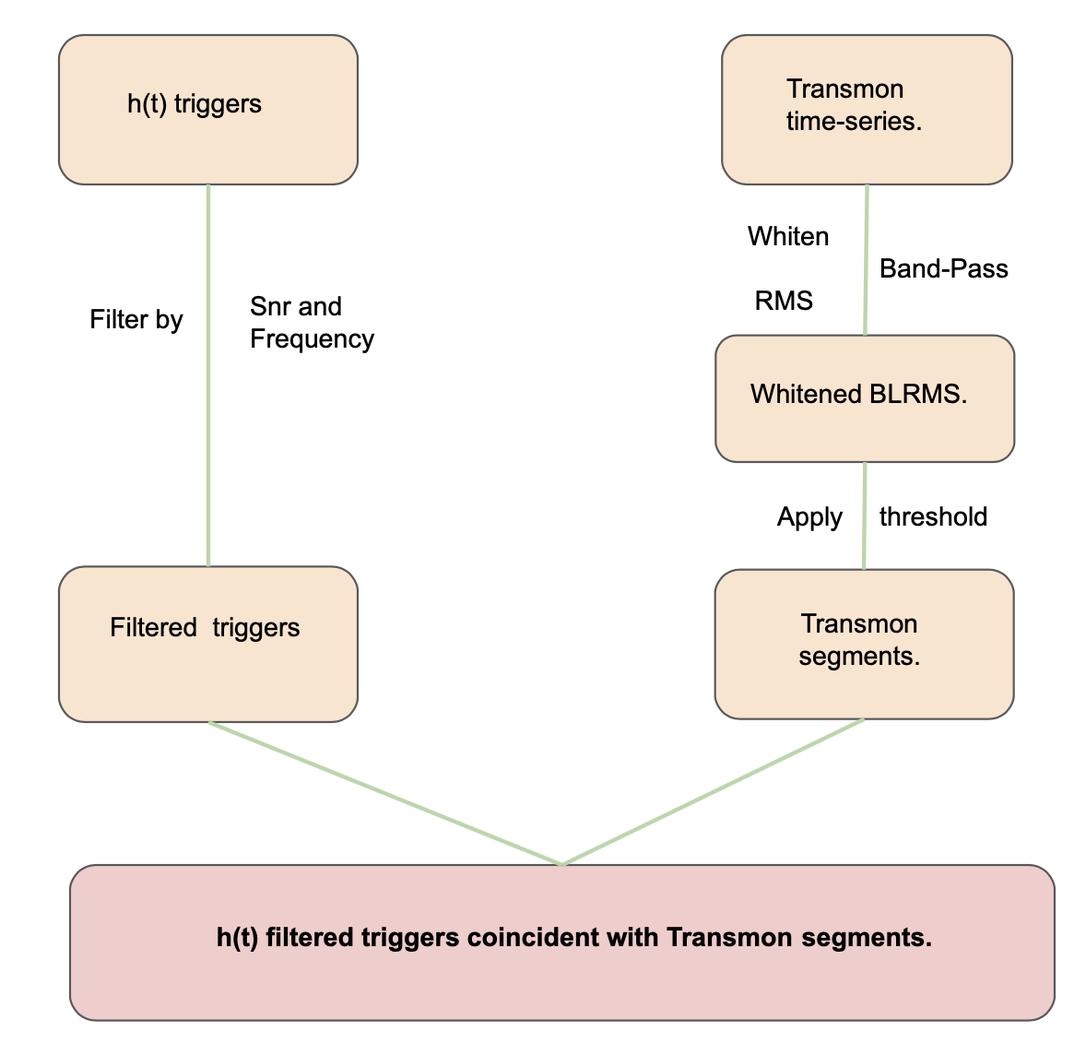
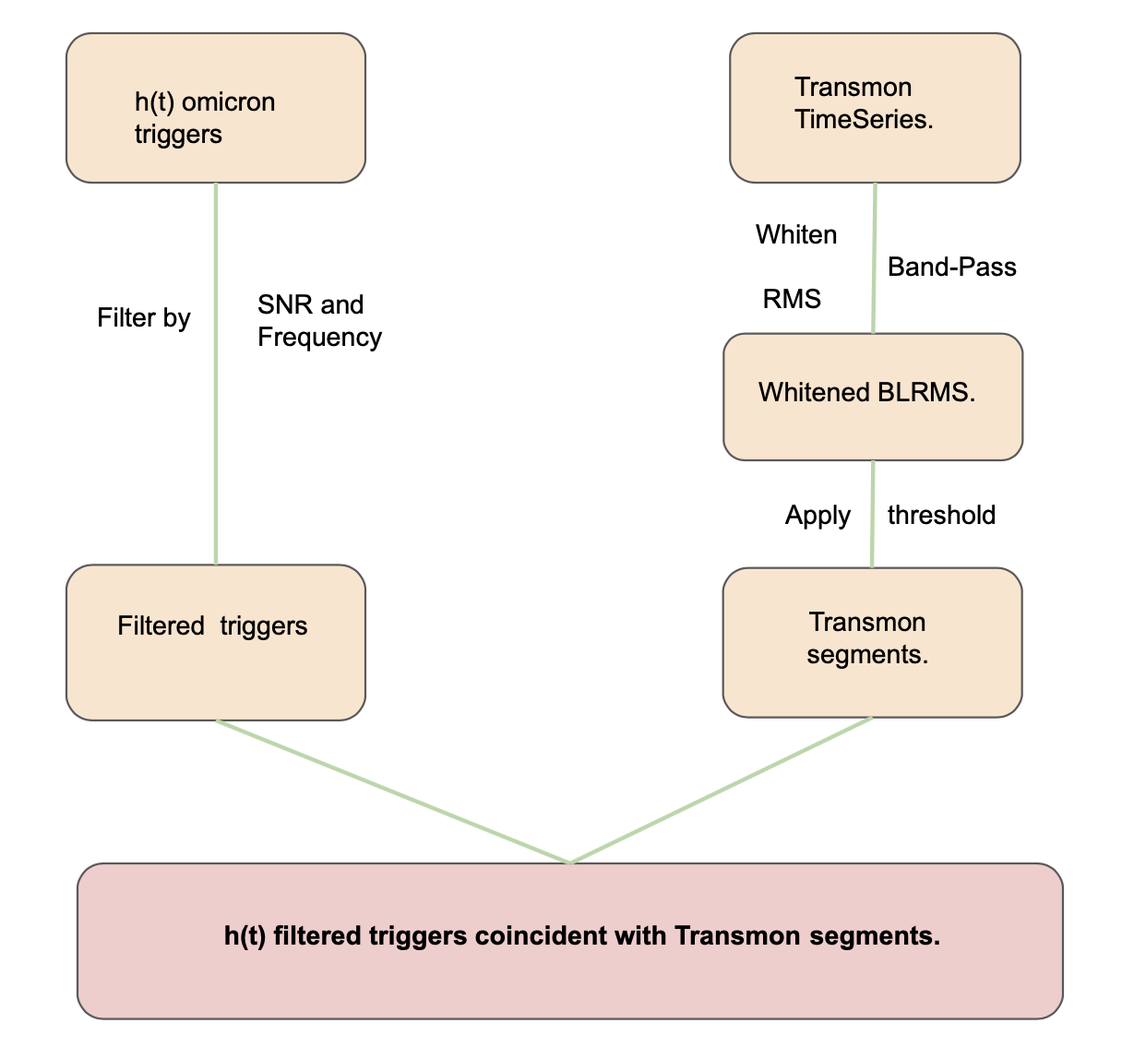
PnP first

diff --git a/elsarticle-template-1-num.tex b/elsarticle-template-1-num.tex
@@ -49,7 +49,7 @@
 %% for the whole article with \linenumbers after \end{frontmatter}.
 \usepackage{lineno}
 \usepackage{caption}
-\captionsetup[figure]{font=small}
+\captionsetup[figure]{font=small,labelfont=bf}
 %\usepackage[font=small,labelfont=bf]{caption}
 %\usepackage[font=small,labelfont=bf]{subcaption}
 \usepackage{cite}
@@ -161,8 +161,7 @@ Noise due to scattered light has been a frequent disturbance in the Advanced LIG
 The LIGO  gravitational-wave observatories located at Hanford, Washington (LHO), and Livingston, Louisiana (LLO) in the USA, along with the Virgo detector in Cascina, Italy~\cite{virgo}, and the GEO 600 detector in Germany~\cite{german} are a part of a worldwide network of gravitational-wave detectors~\cite{aligo}. 
 A schematic of the LIGO detectors is shown in Fig. ~\ref{fig:schematic}.
 Each LIGO detector is a dual-recycled Fabry-Perot Michelson interferometer with 4 km arms. The detector acts as a transducer for strain, converting phase shift due to a gravitational wave into a signal that can be measured on a photo-diode. The output signal at the photodetectors is calibrated to an equivalent strain signal h(t) \cite{Abbott_2017,Viets_2018}.
-%At the anti-symmetric end, the output mode cleaner filters the laser beam by blocking higher-order modes. Homodyne readout technique is used to read the signal at the output port \cite{Fricke_2012}. Finally, The output signal at the photodetectors is calibrated to an equivalent strain signal h(t) \cite{Abbott_2017,Viets_2018}.
-%{Abbott_2017}\cite{Viets_2018}.
+
 \begin{figure}[h]
     \centering
     \includegraphics[width=12cm]{ligo-schematic.png}
@@ -171,24 +170,24 @@ Each LIGO detector is a dual-recycled Fabry-Perot Michelson interferometer with 
 \end{figure}
 
 
-The first two observing runs, in September 2015-January 2016 and November 2016-August 2017, resulted in spectacular discoveries, including signals from the merger of 10 pairs of black holes and one from a merger of neutrons stars~\cite{catalogue,firstpaper,neturonpaper}. The third observing run began on April 1, 2019, and ended on March 27, 2020. During this run, plausible candidates were shared as public alerts, averaging one a week ~\cite{gracedb}. The average binary neutron star (BNS) range at Livingston and Hanford, during O3, is approximately 130 Mpc and 110 Mpc respectively. In October 2019, a month long working break separated the first and second half of O3, called O3a and O3b respectively. An increase in the laser input power and squeezed light injection, contributed to the increase in range from O2 to O3~\cite{src,prospect}.
+The first two observing runs, in September 2015-January 2016 and November 2016-August 2017, resulted in spectacular discoveries, including signals from the merger of 10 pairs of black holes and one from a merger of neutrons stars~\cite{catalogue,firstpaper,neturonpaper}. The third observing run began on April 1, 2019, and ended on March 27, 2020. During this run, plausible candidates were shared as public alerts, averaging one a week ~\cite{gracedb}. The average binary neutron star (BNS) range at Livingston and Hanford, during O3, is approximately 130 Mpc and 110 Mpc respectively. In October 2019, a month long working break separated the first and second half of O3, called O3a and O3b respectively. An increase in the laser input power and squeezed light injection, contributed to the increase in range from O2 to O3~\cite{prospect}.
 
 
 Noise from several different sources limits the sensitivity of the strain data at different frequencies. 
-While quantum shot noise is dominant at frequencies above 300 Hz~\cite{tjthesis}, ground motion is the major source of noise below 10 Hz which can affect the higher frequency band of the detectors. In addition to quantum noise, suspension noise and seismic noise, short duration noise transients also known as ``glitches'' can affect the sensitivity of the detectors \cite{transientpaper}. These noise transients can be due to high ground motion, electronic malfunction or other reasons, not well-understood \cite{Nuttall_2018,noisepaper,Cabero_2019}. In this paper, we focus on the type of noise transient due to scattered light which impacts the gravitational strain in 10 Hz to 120 Hz frequency band. Identifying and reducing the amount of scattering is imperative to increase the sensitivity of the detectors. 
+While quantum shot noise is dominant at frequencies above 300 Hz~\cite{tjthesis}, ground motion is the major source of noise below 10 Hz which can affect the higher frequency band of the detectors. In addition to quantum noise, suspension noise and seismic noise, short duration noise transients also known as ``glitches'' can affect the sensitivity of the detectors \cite{transientpaper}. These noise transients can be due to high ground motion, electronic malfunction or other reasons, not well-understood \cite{Nuttall_2018,noisepaper,Cabero_2019}. At aLIGO they are detected by the Omicron algorithm. Each of these events, also known as omicron trigger is annotated with some parameters such as event time, frequency, signal to noise ratio (SNR) to name a few ~\cite{omicron_florent,jess_thesis}. In this paper, we focus on the type of noise transient due to scattered light which impacts the gravitational strain in 10 Hz to 120 Hz frequency band. Identifying and reducing the amount of scattering is imperative to increase the sensitivity of the detectors. 
  
 The paper is composed as follows. In Sec. \ref{hardware} we give an overview of the sensors and instruments at the LIGO end stations. Next in Sec. \ref{scatteringnoise}, we discuss scattering noise and two primary methods used for its identification. Scattering noise during O3 is addressed in Sec. \ref{scatino3}. In Sec. \ref{m0r0_scattering} we provide a mathematical treatment of slow scattering, a sub-population of the light scattering and discuss the source of the noise. In Sec. \ref{rzero} we develop a method to mitigate the slow scattering noise discussed in Sec. \ref{m0r0_scattering}. Sec. \ref{transmon_scattering} introduces another source of slow scattering observed during O3. In Sec. \ref{transmonwitness} we discuss a method to identify scattering times. Finally we summarize the paper in Sec. \ref{summary}. 
 
-\section{Hardware and sensors at LIGO end stations.}\label{hardware} In this paper, we discuss noise due to scattered light. The site of light scattering discussed in this paper, is the set of mirrors located in the end station housing. This section describes these mirrors and other hardware, crucial for an understanding of light scattering,
-One of the LIGO end station housing an end test mass \cite{ETM_ref} of the interferometer arm is shown in Fig. ~\ref{fig:end_station}. Each station has a reference seismometer on the floor to monitor ambient seismic noise. The vacuum system has at the end of the 4km arms large vacuum chambers housing the test masses. The test mass and a transmitted light monitoring table are suspended from a two-stage seismic isolation table \cite{Matichard_2015}. The test mass has a double chain, four-layered suspension for additional isolation \cite{Aston_2012}. The quadruple suspension chain behind the quadruple test mass suspension is called the reaction chain. There is additional hardware around the suspension, most importantly the ``cage": a structure hard bolted to the seismic isolation table which serves both as a reference and as a safety measure for protecting against large motions that could damage the suspension.
+\section{Hardware and sensors at LIGO end stations}\label{hardware} In this paper, we discuss noise due to scattered light. The site of light scattering discussed in this paper, is the set of mirrors located in the end station housing. This section describes these mirrors and other hardware, crucial for an understanding of light scattering,
+A schematic of the LIGO end station housing an end test mass \cite{ETM_ref} of the interferometer arm is shown in Fig. ~\ref{fig:end_station}. Each station has a reference seismometer on the floor to monitor ambient seismic noise. The vacuum system has at the end of the 4km arms large vacuum chambers housing the test masses. The test mass and a transmitted light monitoring table are suspended from a two-stage seismic isolation table \cite{Matichard_2015}. The test mass has a double chain, four-layered suspension for additional isolation \cite{Aston_2012}. The quadruple suspension chain behind the quadruple test mass suspension is called the reaction chain. There is additional hardware around the suspension, most importantly the ``cage": a structure hard bolted to the seismic isolation table which serves both as a reference and as a safety measure for protecting against large motions that could damage the suspension.
 
 \begin{figure}
     \centering
     \includegraphics[width=\textwidth]{EndStationDiagram3.png}
-    \caption{The schematic of end station housing shows the seismic isolation system, quadruple suspension, transmission monitor system (TMS), and the seismometer used to measure ground vibrations. The OSEMs in the quad suspension cage measure relative motion and produce a force on the main and reaction chain. About 4 ppm of the light power in the arms is transmitted through the end test mass. $95$\% of this 4 ppm is dumped and the remaining $5$\% is split onto the two-quadrant photo-diodes (QPDs) in the TMS. These QPD's are used to check for any misalignment of the beam on the end test mass. }
+    \caption{The schematic of end station housing shows the seismic isolation system, quadruple suspension, transmission monitor system (TMS), and the seismometer used to measure ground vibrations. The optical shadow sensor and magnetic actuators (OSEMs) in the quad suspension cage measure relative motion and produce a force on the main and reaction chain. About 4 ppm of the light power in the arms is transmitted through the end test mass. $95$\% of this 4 ppm is dumped and the remaining $5$\% is split onto the two-quadrant photo-diodes (QPDs) in the TMS. These QPD's are used to check for any misalignment of the beam on the end test mass. }
     \label{fig:end_station}
 \end{figure}
-The suspension for the test mass uses optical shadow sensor and electromagnetic actuators (OSEM)  at the top three stages as well as an electrostatic drive (ESD) at the test mass stage. The OSEMs at the top stages measure relative motion and can produce a force (actuate) between the cage and the two chains. For the upper-intermediate mass (UIM) and penultimate (PUM) mass stages, the OSEMs measure and actuate in-between the two chains. The ESD is formed by the installation of 5 gold traces on reaction mass \cite{esd_schematic}. Applying a voltage on the gold traces, an electrostatic force can drive the test mass.  The reaction mass is a hollow cylinder to allow the transmitted beam to pass without encountering additional optical surfaces \cite{aerm_schematic}.
+The suspension for the test mass uses optical shadow sensor and magnetic actuators (OSEM)  at the top three stages as well as an electrostatic drive (ESD) at the test mass stage. The OSEMs at the top stages measure relative motion and can produce a force (actuate) between the cage and the two chains. For the upper-intermediate mass (UIM) and penultimate (PUM) mass stages, the OSEMs measure and actuate in-between the two chains. The ESD is formed by the installation of 5 gold traces on reaction mass \cite{esd_schematic}. Applying a voltage on the gold traces, an electrostatic force can drive the test mass.  The reaction mass is a hollow cylinder to allow the transmitted beam to pass without encountering additional optical surfaces \cite{aerm_schematic}.
 
 The transmission monitor is a double suspension with OSEM's at the top stage, measuring motion with respect to its cage \cite{Barsotti_2010}. It houses a telescope to reduce the large beam size coming from the arm. The LIGO end test masses have a transmission of approximately 4ppm, so for an arm power of 250kW as in O3a for the Livingston detector, the transmitted beam would be about 1W. $95\%$ of this light is dumped and $5\%$ is split about equally between two quadrant photodiodes, named A and B. 
 
@@ -214,14 +213,13 @@ The motion of the scatterer introduces an additional phase in the field reflecte
     
 ${\lambda}$ is the laser wavelength and  $\delta x_{sc}$ is the time-dependent displacement of the scattering surface which is added to the static path $x_{0}$, $L$ is the length of arms (4 kms), $\mathcal{F}$ is the Fourier transform of the scatterer motion~\cite{scatvirgo,vaj_scat}. 
 \par
-The build up of this phase shifted field in the arms by the factor ${\Gamma}$ pushes on the mirrors resulting in radiation pressure noise. This radiation component can be expressed as:
+The build up of this phase shifted field in the arms by the factor ${\Gamma}$ pushes on the mirrors resulting in radiation pressure noise. This radiation component of the noise can be expressed as:
 
-%The power fluctuations in the arm cavity push on the mirrors resulting in radiation pressure noise. This noise can be written as:
 
 \begin{equation}
     h_{rad}(f) = A\frac{2{\Gamma P}}{Mc}\frac{2}{\Omega^2 - \omega^2} \mathcal{F}\left[\cos{\delta{\phi}}\right] \label{rad_eqn}
 \end{equation}
-${\Gamma}$ is cavity signal gain, $M = 40$ kgs is the mass of mirrors, $P$ is the power in the arms, $c$ is speed of light and ${\Omega}$ is the suspension eigenfrequency~\cite{Ottaway:12}.
+${\Gamma}$ here is cavity signal gain, M $= 40$ kgs is the mass of mirrors, P is the power in the arms, $c$ is speed of light and ${\Omega}$ is the suspension eigenfrequency~\cite{Ottaway:12}.
 \begin{figure}[h]
     \centering
     \includegraphics[width=10cm]{scatindarmlrs1.png}
@@ -234,27 +232,24 @@ Scattering noise can be recognized as arches in time-frequency spectrograms as s
     f_{\rm fringe}(t) = \left|\frac{2nv_{sc}(t)}{\lambda}\right|  \label{eq:3}
 \end{equation}
 where $f_{\rm fringe}(t)$ is the fringe frequency and $n$ is the number of times stray light gets reflected back and forth between the test mass and the scatterer before it joins the main beam. We can also look at the spacing of the peaks in the time domain to give us the period of the scattering surface. 
-%Fig.~\ref{fig:scat} shows a scattering arch in time-frequency plane.
 
-%Noise due to scattered light appears as an arch in time-frequency plane~\cite{omegscan}~\cite{omegscan1} as shown in  Fig.~\ref{fig:scat}. 
-%During the first and second Observing runs, it was identified by measuring the motion of some of the optics that could be responsible for scattering and by looking at the output of GravitySpy which is a noise classification tool. Next, we briefly discuss these two methods.
 
 
 %\subsection{GravitySpy}
-% During the first and second Observing runs, scattering triggers were identified by measuring the motion of some of the optics that could be responsible for the scattering, discussed in Sec. \ref{transmon_scattering}, 
 We can identify times of transients due to scattered light by looking at the output of GravitySpy.
-GravitySpy is an image recognition tool that uses machine learning to classify the variety of omicron triggers that show up as transient noise in the strain data~\cite{omicron_florent,jess_thesis}. It is a citizen science project and volunteers help to generate the training dataset by assigning one of the several glitch class to the spectrogram images ~\cite{gspy,gspymachine}.
+GravitySpy is an image recognition tool that uses machine learning to classify the variety of omicron triggers that show up as transient noise in the strain data. It is a citizen science project and volunteers help to generate the training dataset by assigning one of the several glitch class to the spectrogram images ~\cite{gspy,gspymachine}.
 
 
 
 
 \section{Scattering in O3}\label{scatino3}
 The BNS range of the detectors, which is the average astrophysical range for binary star mergers, increased to 110-140 Mpc in O3, from around 80-100 Mpc in O2~\cite{prospect} Due to this improvement in sensitivity and the enhanced stability of the interferometer which allows the detector to stay operational during high microseismic activity, some of the transients of similar origin in O2 and O3 now surface with higher signal to noise ratio (SNR). 
-Consequently, we see a lot more scattering arches in O3. An interesting feature of scattering in O3 is the presence of two different populations of scattering glitches, so-called the ``slow'' scattering and the ``fast'' scattering. The glitch morphology of the slow scattering is the more familiar arch in time-frequency plane as shown in fig \ref{fig:slowscat}. The fast scattering triggers are more localized in time. GravitySpy currently does not distinguish between fast and slow scattering. Slow arches during O3a  typically appeared with an SNR of 15 or higher and an SNR range of 14-16 serves as a threshold to separate the slow and fast scattering glitches in O3a. In this analysis, we have used the SNR threshold of 15 to separate the two populations of scattering glitches during O3a.
+Consequently, we see a lot more scattering arches in O3. An interesting feature of scattering in O3 is the presence of two different populations of scattering glitches, so-called the ``slow'' scattering and the ``fast'' scattering. The glitch morphology of the slow scattering is the more familiar arch in time-frequency plane as shown in fig \ref{fig:slowscat}. The fast scattering triggers are more localized in time and occur with lower SNR compared to slow scattering. Table \ref{tab:fastslowtab} compares different characteristics of slow and fast scattering triggers.
+%GravitySpy currently does not distinguish between fast and slow scattering. Slow arches during O3a  typically appeared with an SNR of 15 or higher and an SNR range of 14-16 serves as a threshold to separate the slow and fast scattering glitches in O3a. In this analysis, we have used the SNR threshold of 15 to separate the two populations of scattering glitches during O3a.
 \begin{figure}[h]
     \centering
-    \includegraphics[width=10cm]{scat_shelf6.png}
-    \caption{ Depending on the ground motion, scattering create shelves in h(t) spectrum that are visible in the range 10 Hz to 120 Hz. The blue curve shows the h(t) spectrum for 20 seconds of data from January 6, 2020, a day with extremely high microseism compared against a quieter day. It is important to point out that data below 20 Hz is not analyzed in most gravitational wave searches and a high pass filter is applied in the frequency region around 9 Hz due to very high seismic noise at low frequencies \cite{viets_thesis}}
+    \includegraphics[width=10cm]{scat_shelf8.png}
+    \caption{ Depending on the ground motion, scattering create shelves in h(t) spectrum that are visible in the range 10 Hz to 120 Hz. The blue curve shows the h(t) spectrum for 20 seconds of data from January 6, 2020, a day with extremely high microseism compared against a quieter day. It is important to point out that data below 15 Hz is not analyzed in most gravitational wave searches and a high pass filter is applied in the frequency region around 9 Hz due to very high seismic noise at low frequencies \cite{viets_thesis}}
     \label{fig:scatshelf1}
 \end{figure}
 \begin{figure}[h]
@@ -275,7 +270,7 @@ Consequently, we see a lot more scattering arches in O3. An interesting feature 
          
     
     \end{subfigure}
-    \caption{The first image shows time-frequency representation of  slow scattering. This is an unusual number of arches due to extremely high ground motion in  $0.03$ - $0.1$ Hz (earthquake) and $0.1$ - $0.3$  Hz (microseism) band on April 5, 2019. The second image shows the PUM stage motion between the chains for the same duration. As mentioned earlier in Sec. \ref{hardware}, the PUM stage OSEM, records twice the motion in between the quad chains.}
+    \caption{The first image shows time-frequency representation of  slow scattering. This is an unusual number of arches due to extremely high ground motion in the $0.03$ - $0.1$ Hz (earthquake) and $0.1$ - $0.3$  Hz (microseism) bands on April 5, 2019. The second image shows the PUM stage motion between the chains for the same time period. As mentioned earlier in Sec. \ref{hardware}, the PUM stage OSEM, records twice the displacement of the main chain.}
     \label{fig:slowscat_sus}
     
 \end{figure}
@@ -319,7 +314,7 @@ Slow scattering is  dominant during high ground motion in $0.03$ - $0.1$ Hz (ear
 
 
 \subsection{Fast Scattering.}
-The fast scattering triggers shown in Fig. \ref{fig:fastscat} occur with a frequency $\sim$ 4 Hz in contrast to the 0.13-0.14 Hz of slow scattering arches~\cite{alogjosh}. This population of scattering correlates better with the increased ground motion in  $1$ - $3$ Hz (anthropogenic) and $0.1$ - $0.3$ (microseism) band. It is normally higher in the daytime during the weekdays. Human activity near the site and trains passing on the track near the Y end station at LLO shakes the ground in these frequency bands. 
+The fast scattering triggers shown in Fig. \ref{fig:fastscat} occur with a frequency $\sim$ 4 Hz in contrast to the 0.13-0.14 Hz of slow scattering arches~\cite{alogjosh}. This population of scattering correlates with increased ground motion in the  $1$ - $3$ Hz (anthropogenic) and $0.1$ - $0.3$ Hz (microseism) band. It is normally higher in the daytime during the weekdays. Human activity near the site and trains passing on the track near the Y end station at LLO shakes the ground in these frequency bands. 
 %June 3, 2019, a day with very high ground motion in the 1-3 Hz band, registered close to 1000 triggers that resembled fast scattering. 
 These triggers affect the h(t) sensitivity in the band between 10 and 50 Hz.
 \begin{figure}
@@ -344,7 +339,7 @@ These triggers affect the h(t) sensitivity in the band between 10 and 50 Hz.
     \caption{Omicron glitch rate.} \label{subfig:fast_scat_rate}
     \end{subfigure}
     \end{minipage}
-    \caption{The figure on the left shows the fast scattering triggers in time-frequency plane at LLO. Each ``arch'' contains multiple sub-arches. Fast scattering triggers correlate well with high ground motion in the $1$ - $3$ Hz (anthropogenic) band. The top right figure on the right shows the ground motion in the $1$ - $3$ Hz band at X and Y end of the detector at LLO on Feb, 9, 2020. The bottom right figure shows glitch rate for omicron triggers in band 10 to 50 Hz for the same duration. }
+    \caption{The figure on the left shows the fast scattering triggers in time-frequency plane at LLO. Each ``arch'' contains multiple sub-arches. Fast scattering triggers correlate well with high ground motion in the $1$ - $3$ Hz (anthropogenic) band. The top right figure shows the ground motion in the $1$ - $3$ Hz band at X and Y end of the detector at LLO on Feb, 9, 2020. The bottom right figure shows glitch rate for omicron triggers in band 10 to 50 Hz for the same duration. }
     \label{fig:Fast_scattering}
 
 \end{figure}
@@ -358,11 +353,13 @@ These triggers affect the h(t) sensitivity in the band between 10 and 50 Hz.
       \hline
        Frequency of arches  & $<$ 0.2 Hz & $>$ 4 Hz \\
       \hline
-      Median Peak Frequency & 20.6 Hz & 32.2 Hz \\
+      Median Peak Frequency & 20.6 Hz & 34.6 Hz \\
       \hline
-      Median duration & 3.4 sec & 1.3 sec \\
+      Median SNR & 37.6 & 11.0 \\
       \hline
-      Fraction of Scattering & 33.2 \% & 66.8 \% \\
+      Median duration & 3.2 sec & 1.3 sec \\
+      \hline
+      Fraction of Scattering & 40.2 \% & 59.7 \% \\
        
     \hline
     \end{tabular}
@@ -371,20 +368,20 @@ These triggers affect the h(t) sensitivity in the band between 10 and 50 Hz.
 \end{table}{}
 
 
-Table \ref{tab:fastslowtab} compares different characteristics of slow and fast Scattering triggers. The striking differences in the glitch morphology, the peak frequency, and the duration of the triggers for slow and fast scattering triggers suggest that they have a different mechanism through which the noise couples to the detector. Fig. ~\ref{fig:snrdur} shows the SNR and duration of total scattering glitches in O3a. Both distributions reveal the presence of more than one population of scattering triggers. As evident from Table.~\ref{tab:fastslowtab} slow scattering triggers tend to be longer duration compared to fast scattering triggers. We concentrate in this paper on slow scattering triggers and will not investigate fast scattering further. In the next section, we provide a detailed description of slow scattering noise at Livingston.
+ The striking differences in the glitch morphology, the peak frequency, SNR, and the duration of the triggers for slow and fast scattering triggers suggest that they have separate mechanisms through which the noise couples to the detector. Fig. \ref{fig:snrdur} shows the SNR and duration of total scattering glitches in O3a. Both distributions reveal the presence of more than one population of scattering triggers. We concentrate in this paper on slow scattering triggers and will not investigate fast scattering further. In the next section, we provide a detailed description of slow scattering noise at Livingston.
 \begin{figure}[h]
 \captionsetup[subfigure]{font=scriptsize,labelfont=scriptsize}
    \centering
     \begin{subfigure}[b]{0.45\textwidth}
         \centering
-         \includegraphics[width= 6cm]{histsnr4b.png}
+         \includegraphics[width= 6cm]{histsnr4c.png}
          \caption{SNR distribution for scattering in O3a.}
          \label{fig:histsnr}
     \end{subfigure}
     \hfill
     \begin{subfigure}[b]{0.5\textwidth}
         \centering
-         \includegraphics[width =6cm]{histdur4b.png}
+         \includegraphics[width =6cm]{histdur4c.png}
          \caption{ Duration distribution of scattering in O3a.}
          \label{fig:histdur}
          
@@ -416,7 +413,7 @@ As described in Sec. \ref{hardware} an external drive is applied to the test mas
  
 Several clues pointed specifically towards a scattering path involving the annular end reaction mass (AERM): first, the presence of several harmonics of the arches or scattering shelves (with ~$10\%$ of the power in each successive harmonic), indicated that significant fractions of the light traversed the scattered light path more than once. This eliminated several potential paths, such as to light baffles or enclosure walls, because imperfect reflections on these other paths would likely cause the loss of much more than $90\%$ of the power in each successive round trip. Second, the observation of similar harmonic series of arches at both LHO and LLO suggested that the noise was not due to an improbable alignment. And, third, micron-scale relative motions were recognized between upper stages of the test mass and reaction mass chains, suggesting that the scattering surfaces were likely between the chains. %suggesting a variation from the original design, which sought to minimize such large relative motions. 
  
-The relative movement between the ETM and AERM, ${\delta x_{sc}}$ in Eq \ref{eq:2}, is not directly sensed, but at low frequencies (relative to the $.45$ Hz pendulum resonance ) the motion between the ETM and AERM is similar to motion that is sensed at the penultimate (PUM) stage of the compound pendulum. This allows us to approximate the motion between the end test mass and the reaction mass with that of PUM stage.  As shown in Fig. ~\ref{fig:fringel2} the fringe frequency of the PUM stage motion and its higher harmonics, calculated using Eq \ref{eq:3}, match scattering arches in $h(t)$ spectrograms pretty well. 
+The relative movement between the ETM and AERM, ${\delta x_{sc}}$ in Eq \ref{eq:2}, is not directly sensed, but at low frequencies (relative to the $.45$ Hz pendulum resonance ) the motion between the ETM and AERM is similar to motion that is sensed at the penultimate (PUM) stage of the compound pendulum. This allows us to approximate the motion between the end test mass and the reaction mass with that of PUM stage.  As shown in Fig. ~\ref{fig:fringel2} the fringe frequency of the PUM stage motion and its higher harmonics, calculated using Eq \ref{eq:3}, match scattering arches in $h(t)$ spectrograms.
 
 %In this case, ${\delta x_{sc}}$ is the relative movement between the ETM and AERM. Below the natural pendulum frequencies, it is similar to the relative motion between the penultimate stage (PUM) mirrors on test mass chain and reaction chain.  
 %This allows us approximate the relative motion at the end stage by L2 stage motion.
@@ -427,11 +424,11 @@ The relative movement between the ETM and AERM, ${\delta x_{sc}}$ in Eq \ref{eq:
 
 During operations, most of the light transmitted through the ETM, goes through the reaction mass hole and onto the other side of the reaction chain as shown in Fig.~\ref{fig:mirror_diag}. A small fraction of this Gaussian beam hits the gold trace electro-static drive (ESD), referred in Sec. \ref{hardware}, on the AERM. Due to its high reflectivity, almost all of the light is scattered back towards the test mass and a fraction $\sqrt{T_{end}}$ gets transmitted back to the arm through the ETM. This back scattered field with an additional phase shift, given by equation \ref{eq:2}, interferes with the main beam in the arms and introduces phase noise in h(t).
 \par
-Let $E_{0}$ be the field in the arms and $E_{asd}$ is the part of this field backscattered from the end reaction mass at the point $E_{0}$ is computed. We can calculate the total field in the arms:
+Let $E_{0}$ be the field in the arms and $E_{esd}$ is the part of this field backscattered from the end reaction mass at the point $E_{0}$ is computed. We can calculate the total field in the arms:
 
 \begin{eqnarray}
-    E_{tot} & = & E_{0} + E_{asd} \label{eq:4} \\
-    E_{asd} & = & E_{0}Ae^{i{\delta}{\phi}(t)} ,\quad A = T_{end}\sqrt{f_{r}}  \label{eq:5} \\ 
+    E_{tot} & = & E_{0} + E_{esd} \label{eq:4} \\
+    E_{esd} & = & E_{0}Ae^{i{\delta}{\phi}(t)} ,\quad A = T_{end}\sqrt{f_{r}}  \label{eq:5} \\ 
     E_{tot} & = & E_{0}[1 + Ae^{i{\delta}{\phi}(t)}]  \label{eq:6}
     %E_{tot} &= E_{0}[1 + Acos({\delta}{\phi}(t)) + Asin({\delta}{\phi}(t))]
 \end{eqnarray}
@@ -448,16 +445,18 @@ Let $E_{0}$ be the field in the arms and $E_{asd}$ is the part of this field bac
 %      h_{ph}(f) = \frac{\lambda T_{end}\sqrt{f_{r}}}{8{\pi}L}\mathcal{F}\left[\sin\left(\frac{4{\pi}}{\lambda}{\delta x_{sc}(t)}\right)\right]  \label{eq:8} \\
 %      h_{rad}(f) = \frac{4{\Gamma P}}{Mc}\frac{T_{end}\sqrt{f_{r}}}{\Omega^2 - \omega^2}\mathcal{F}\left[\cos\left(\frac{4{\pi}}{\lambda}{\delta x_{sc}(t)}\right)\right]
 % \end{eqnarray}
+$T_{end}$ is the ETM  transmission ($4e^{-6}$), $f_{r}$ is the fraction of power reflected back from the scattering surface.
 
-The total effective displacement power spectrum $S(f)$ can be obtained by adding the phase and radiation contributions:
+The phase noise $h_{ph}
+(f)$ and the radiation noise $h_{rad}(f)$ due to this back scattered field is given by the equation \ref{eq:1} and equation \ref{rad_eqn} respectively. 
+The total effective displacement power spectrum $S(f)$ can be obtained by adding the individual contribution:
 
 \begin{equation}
 S(f) = \sqrt{h_{ph}(f)^2 + h_{rad}(f)^2} \label{total_noise}
 \end{equation}
 
 
-$h_{ph}
-(f)$ and $h_{rad}(f)$ are given by equation \ref{eq:1} and equation \ref{rad_eqn} respectively. $T_{end}$ is the ETM  transmission ($4e^{-6}$), $f_{r}$ is the fraction of power reflected back from the scattering surface.
+
 \begin{figure}[h]
 \captionsetup[subfigure]{font=scriptsize,labelfont=scriptsize}
    \centering
@@ -470,20 +469,19 @@ $h_{ph}
     \hfill
     \begin{subfigure}[b]{0.45\textwidth}
         \centering
-         \includegraphics[width =\textwidth]{spectrum_l2new1.png}
+         \includegraphics[width =\textwidth]{spectrum_l2new2.png}
          \caption{PUM stage amplitude spectral density overlaid on h(t) spectrum.}
          \label{fig:spectruml2}
          
     
     \end{subfigure}
-    \caption{In the first plot, we have overlaid the multiple harmonics of the fringe frequency due to the penultimate (PUM) stage motion onto scattering arches. In the second plot, we have plotted the DARM spectrum and the spectrum calculated from the PUM stage motion using equation \ref{total_noise} with smaller and smaller values for $f_{r}$ as we match higher frequency shelves.}
+    \caption{In the left figure, we have overlaid the multiple harmonics of the fringe frequency due to the penultimate (PUM) stage motion onto scattering arches. In the right figure, we have plotted the DARM spectrum during the scattering noise shown in the left figure and the spectrum calculated from the PUM stage motion using equation \ref{total_noise}. DARM spectrum during a quieter time is shown as the black curve for comparison.}
     \label{fig:fringespectrum}
     
 \end{figure}
 
-%The $\delta x_{sc} $ in equation \ref{eq:2} is the relative displacement between the test mass chain and the reaction chain as measured by the optical sensors on the PUM stage. 
 
-Fig. ~\ref{fig:spectruml2} shows the total power spectrum for a scattering event on Jan 6, 2020. The first shelf in the h(t) spectrum matches for $\sqrt{f_{r}} = 4e{-4}$, roughly consistent, within an order of magnitude with a previous estimation \cite{hiro_calc}. The coefficient for second and third shelf are $5e{-5}$ and $5e{-6}$ respectively, about an order of magnitude reduction for each higher harmonic. We performed similar analysis for several scattering triggers and did not find significant deviations in the magnitude of these coefficients for each shelf.
+Fig. ~\ref{fig:spectruml2} shows the total power spectrum for a scattering event on Jan 6, 2020. The first shelf in the h(t) spectrum matches for $\sqrt{f_{r}} = 2e{-4}$, roughly consistent, within an order of magnitude with a previous estimation \cite{hiro_calc}. The coefficient for second and third shelf are $5e{-5}$ and $5e{-6}$ respectively, about an order of magnitude reduction for each higher harmonic. We performed similar analysis for several scattering triggers and did not find significant deviations in the magnitude of these coefficients for each shelf.
 \qquad
 
 
@@ -497,7 +495,7 @@ Fig. ~\ref{fig:spectruml2} shows the total power spectrum for a scattering event
 % \end{figure} 
 
 Scattered light due to the large relative motion between the test mass chain and reaction chain during high ground motion has adversely affected the sensitivity of the detector. 
-During extremely bad microseism as witnessed on Jan 6, 2020, this relative velocity between the end test mass (ETM) and annular end reaction mass (AERM) can get as high as 25${\mu}$m/s. And for any ${\delta}x \gg {\lambda}$ there is an upconversion of the low-frequency motion of the mirrors which shows up as scattering shelves/arches with the frequency determined by equation \ref{eq:3}. In h(t) spectrograms, multiple harmonics of the scattering arches cover the frequency band 10 Hz to 120 Hz due to light reflecting between the ETM and AERM during high microseism as shown in Fig. \ref{fig:fringel2}.
+During very high microseism as witnessed on Jan 6, 2020, this relative velocity between the end test mass (ETM) and annular end reaction mass (AERM) can get as high as 25${\mu}$m/s. And for any ${\delta}x \gg {\lambda}$ there is an upconversion of the low-frequency motion of the mirrors which shows up as scattering shelves/arches with the frequency determined by equation \ref{eq:3}. In h(t) spectrograms, multiple harmonics of the scattering arches cover the frequency band 10 Hz to 120 Hz due to light reflecting between the ETM and AERM during high microseism as shown in Fig. \ref{fig:fringel2}.
 
 One way to reduce this noise coupling is by reducing the relative motion between the ETM and AERM while keeping the intended relative motion between the ETM and the input test mass (ITM) in the arm cavity. This can be achieved by sending a part of the drive from the PUM stage and feeding it to the top stage as shown in Fig. ~\ref{fig:end_station}. This will cause the two chains to move together and hence will reduce the relative motion between them. The reaction chain ``tracks'' the main chain and we call this RC tracking ~\cite{alog_robert}.
 The reduced relative motion effectively decreases the frequency at which scattering creates shelves in $h(t)$ spectrum. 
@@ -505,7 +503,7 @@ The reduced relative motion effectively decreases the frequency at which scatter
 %\subsection{Reduction in  Scattering}
 RC tracking was implemented on Jan 7, 2020, at LLO ~\cite{alog_anamaria}. To understand the impact of the tracking on slow scattering caused by ETM-AERM relative motion, we measured the SNR of scattering triggers and ground motion in the earthquake and microseism band between Nov 1, 2019, the start of O3b and Feb 8, 2020. We analyze triggers that are classified as scattering by Gravityspy with a confidence above 0.9. We divided this data into Pre and Post RC, where for LLO Pre RC is from Nov 1, 2019, to Jan 6, 2020, and Post RC is from Jan 10, 2020, to Feb 8, 2020, and for LHO Pre RC is from Nov 1, 2019, to Jan 14, 2020, and Post RC is from Jan 15, 2020, to Feb 28, 2020. The analyzed data is normalized by the observing duration of Post RC considered in this study, which is $\sim 21$ days for LLO and $\sim 34$ days for LHO. Next, we considered time segments during which the ground motion in the microseismic band is similar Pre and Post RC tracking and plotted the SNR distribution of scattering triggers during these time segments. We found a clear reduction in the SNR of the scattering triggers at LLO and LHO for the Post RC scattering ~\cite{alogsid_R0}. At LLO for example, the number of triggers in the SNR bin 20-25 after RC tracking is 89, while for the same bin, before RC tracking, LLO registered 1127 scattering triggers. The SNR comparison is shown in Fig. \ref{fig:snr_r0LLO}  and Fig. \ref{fig:snr_r0LHO}.
 
-%We used Mann-Whitney U test to compare the Pre and Post R0 data with the null hypothesis that there is no change in the ground motion and SNR of triggers [add ref]. The SNR comparison for LLO and LHO is shown in Fig.~\ref{fig:postr0_scat}.
+
 \par
 \begin{figure}[h]
 \captionsetup[subfigure]{font=scriptsize,labelfont=scriptsize}
@@ -541,7 +539,7 @@ RC tracking was implemented on Jan 7, 2020, at LLO ~\cite{alog_anamaria}. To und
     
     
     
-    \caption{The top images compares the SNR of scattering glitches before and after RC tracking for LLO and LHO. The  SNR distribution is plotted during similar levels of before and after ground motion in the microseism band. The bottom plots compare the scattering glitch rates for different levels of microseismic ground motion before and after RC tracking. For the Pre RC tracking microseism ground motion data considered for LHO in this study, no data was found above $1500\mu{\rm m/s}$. The scattering triggers for these plots were fetched from GravitySpy with confidence above 0.9 and SNR above 10.} % second image compares the rate of scattering triggers for different levels of microseism. This shows that for similar levels of microseism above $1{\mu}m/s$, the Post R0 glitch rate (in green) is substantially lower than Pre R0 (in orange).}
+    \caption{The top images compares the SNR of scattering glitches before and after RC tracking for LLO and LHO. The  SNR distribution is plotted during similar levels of before and after ground motion in the microseism band. The bottom plots compare the scattering glitch rates for different levels of microseismic ground motion before and after RC tracking. For the Pre RC tracking microseism ground motion data considered for LHO in this study, no data was found above $1500\mu{\rm m/s}$. The scattering triggers for these plots were fetched from GravitySpy with confidence above 0.9 and SNR above 10.} 
     \label{fig:postr0_scat}
     
 \end{figure}
@@ -612,7 +610,7 @@ Fig. ~\ref{fig:1265darm} shows a slow scattering arch in the time-frequency repr
 
  
 
-\section{Using transmitted photo-diodes to identify scattering.}\label{transmonwitness}
+\section{Using transmitted photo-diodes to identify scattering}\label{transmonwitness}
 In Sec. \ref{scatteringnoise} we discussed GravitySpy as a method of identifying scattering glitches using machine learning.
 Another way of identifying the triggers is by monitoring the motion of OSEMS and then correlating this motion with the presence of these triggers in the gravitational wave strain channel in 10 Hz - 60 Hz frequency band.
 
@@ -621,7 +619,7 @@ This is accomplished using an algorithm called - \textbf{gwdetchar-scattering}~\
 
 GravitySpy, even though does not provide any information with regards to where the scatterer might be located, identifies a larger subset of scattering triggers compared to that identified by motion in OSEMs. On the other hand, optics motion can be a more direct method of locating the source of scattering noise since it can identify which mirror is moving with the velocity required. It thus makes more sense to see if we can make \textbf{gwdetchar-scattering} more ``efficient'' by adding better scattering witnesses to the algorithm. In this section, we explore such a witness that can be used to identify the scattering noise. A method based on Hilbert Huang transform has also been developed to catch scattering surfaces \cite{hhtransform}.
 
-In the last section, we showed that the transmitted photo-diode channels serve as a witness of scattering noise in h(t). Fig. ~\ref{fig:transetmx} shows a time correlation between the scattering triggers in h(t) as identified by GravitySpy and the noise in the transmitted photo-diode channel below 20 Hz. Due to the presence of this temporal coincidence of triggers, the noise in this auxiliary channel can be used to identify the scattering noise in h(t). Along with OSEM’s, these channels can be added to the list of scattering witnesses in the algorithm - \textbf{gwdetchar-scattering}.
+In the last section, we showed that the transmitted photo-diode channels serve as a witness of scattering noise in h(t). Fig. \ref{fig:transetmx} shows a time correlation between the scattering triggers in h(t) as identified by GravitySpy and the noise in the transmitted photo-diode channel below 20 Hz. Due to the presence of this temporal coincidence of triggers, the noise in this auxiliary channel can be used to identify the scattering noise in h(t). Along with OSEM’s, these channels can be added to the list of scattering witnesses in the algorithm - \textbf{gwdetchar-scattering}.
 
 \begin{figure}[h]
   \centering
@@ -687,8 +685,8 @@ The time-frequency spectrograms of 57 randomly chosen trigger times from these 1
 
 \begin{figure}[h]
     \centering
-    \includegraphics[width=10cm]{osemtransmon1.png}
-    \caption{Comparing efficiency over deadtime between OSEMs and blrms segments. We can see that on all three days, transmmited photo-diode's band limited rms segments perform a better job than OSEMs in identifying slow scattering noise.}
+    \includegraphics[width=10cm]{osemtransmon3.png}
+    \caption{Comparing efficiency over deadtime between OSEMs and blrms segments. This shows that for slow scattering that occurred on Apr 13, May 13 and June 25, 2019, transmmited photo-diode's band limited rms segments perform a better job than OSEMs in identifying it.}
     \label{fig:osemtrans}
 \end{figure}
 
@@ -702,15 +700,15 @@ Of the two separate noise couplings mentioned in Sec. \ref{m0r0_scattering}  and
 
 
 \newpage
-\section{Summary and discussion.}\label{summary}
+\section{Summary and discussion}\label{summary}
  Scattering noise affects the data quality as discussed in Sec. \ref{scatteringnoise} and Sec. \ref{scatino3}. Upconversion of the low-frequency noise due to large optic motion reduces the sensitivity of the detector in the high-frequency detection band. We need to use witnesses that identify times in the data when scattering noise is present as well as, when possible, identifying and eliminating the scatter mechanism in the instrument detector itself. 
 
-We analyzed light scattering in LLO during O3 and we found the presence of two different populations of scattering noise, the slow scattering, and the fast scattering. We investigated slow scattering that appears with a typical arch shape in the time-frequency representation and we found two different paths through which this noise couples to the detector simultaneously. We were able to implement a solution for the louder noise coupling that resulted in a substantial reduction of the noise and we discussed possible remedies for the second one. One of these solutions, the TMS feed forward, we plan to implement in O4.
+We analyzed light scattering in LLO during O3 and we found the presence of two different populations of scattering noise, slow scattering, and fast scattering. We investigated slow scattering that appears with a typical arch shape in the time-frequency representation and we found two different paths through which this noise couples to the detector simultaneously. We were able to implement a solution for the louder noise coupling that resulted in a substantial reduction of the noise and we discussed possible remedies for the second one. One of these solutions, the TMS feed forward, we plan to implement in O4.
 
 In order to identify the times when this noise is present in the gravitational wave channel, we suggested using the band-limited time-series data of an auxiliary channel. This channel, monitors the light transmitted through the end test mass and we showed it identifies a larger subset of scattering triggers as compared to other scattering witnesses.
 \par
 
-\section{Acknowledgements} We acknowledge support from the NSF grant PHY-1806656 and PHY-1505779. For this paper we use the data from the Advanced LIGO detectors and we used the LIGO computing clusters to perform the analysis and calculations. 
+\section{Acknowledgements} We acknowledge support from the NSF grant PHY-1806656, PHY-1505779 and  PHY-1912604. For this paper we use the data from the Advanced LIGO detectors and we used the LIGO computing clusters to perform the analysis and calculations. 
 
   
 %% The Appendices part is started with the command \appendix;
